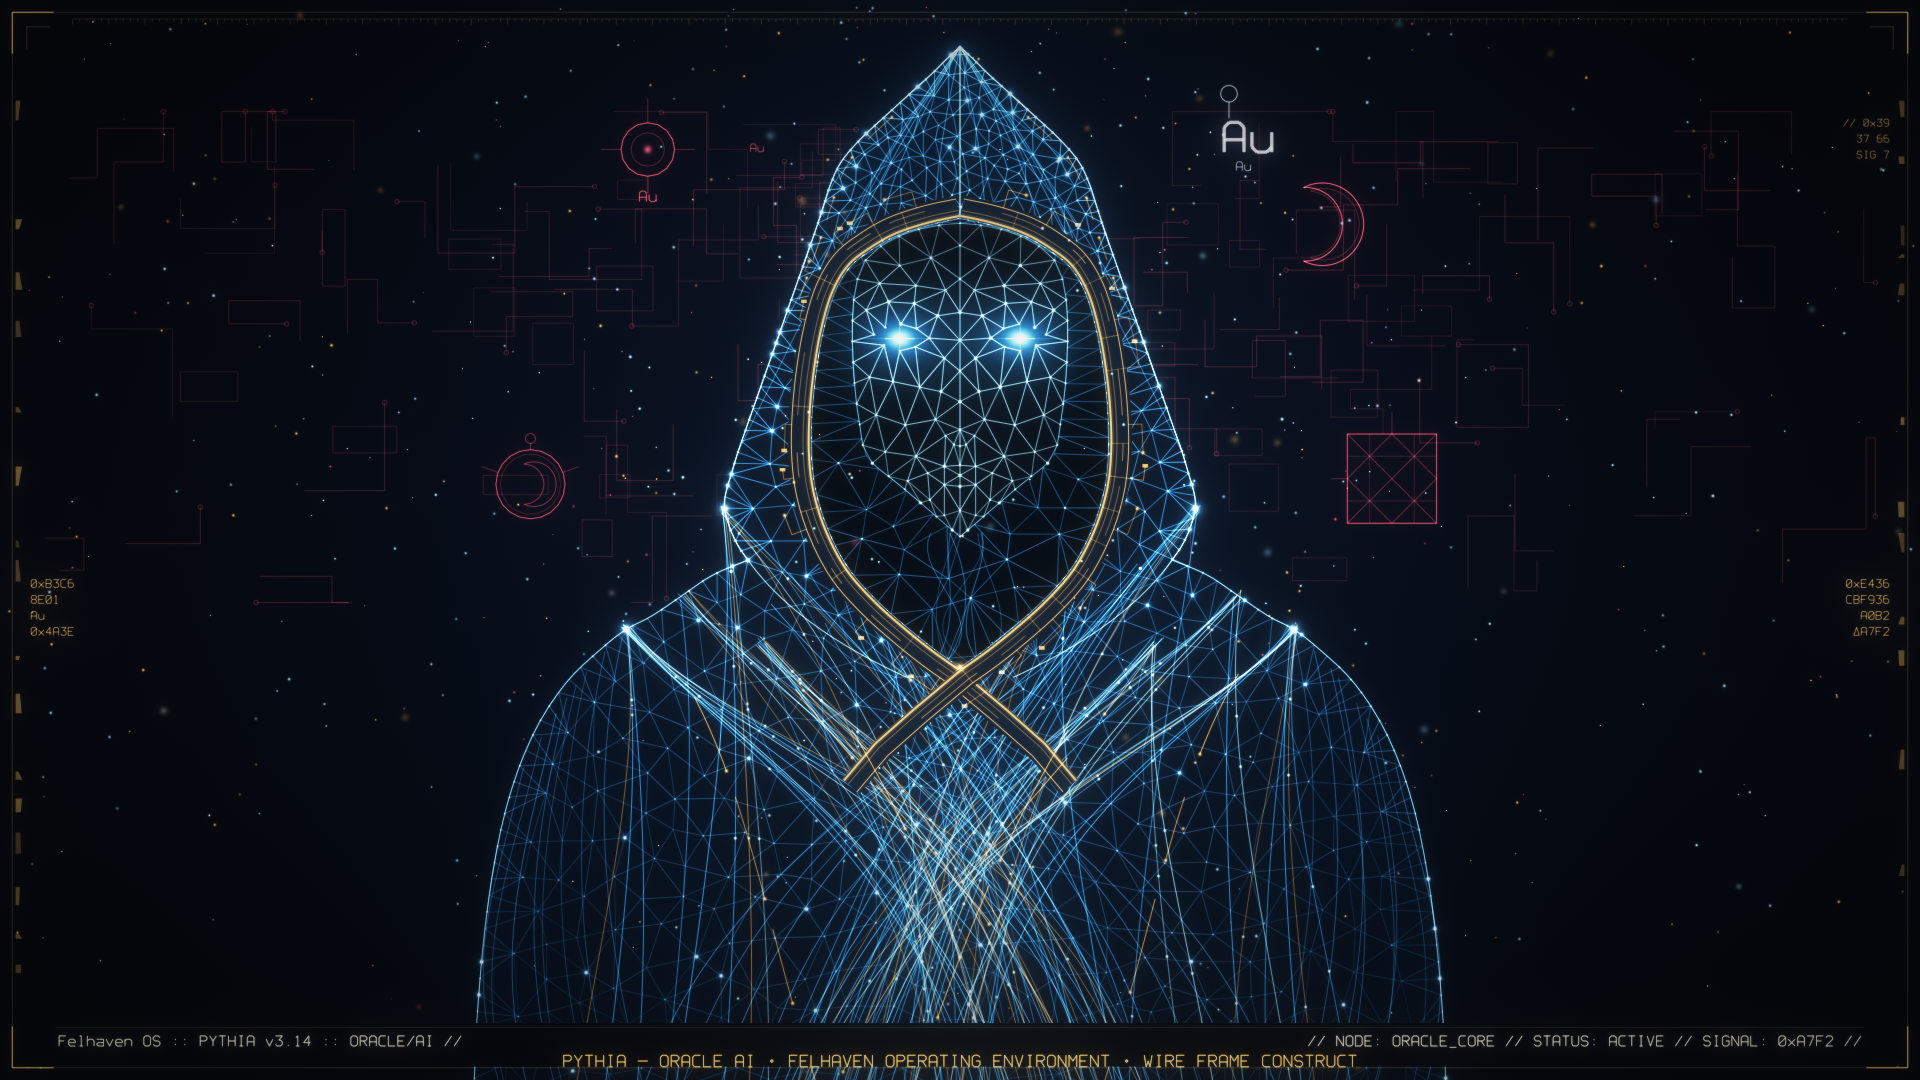
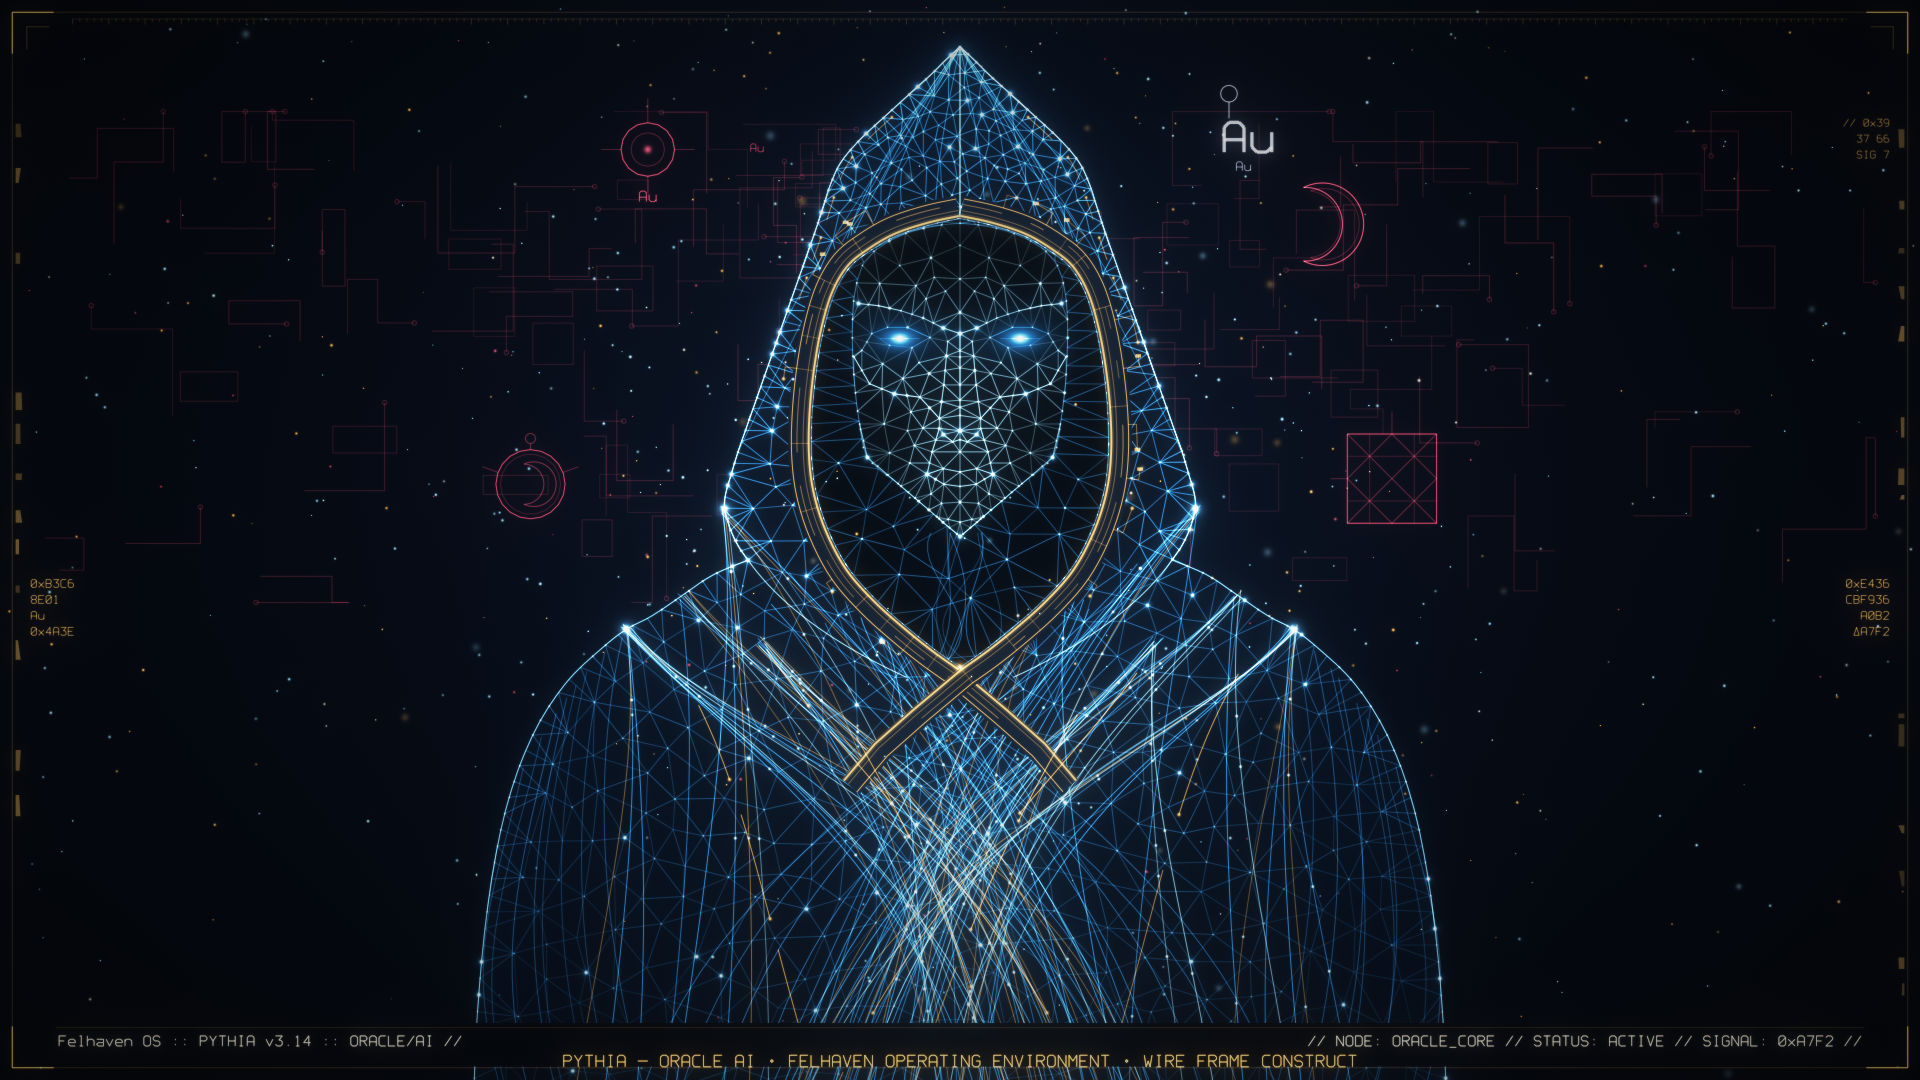
Sandbox: Pythia v2's face gets its character
The face was an even net lit brightest round the eyes: a mask with
headlamps. It is now a skeleton of feature lines over a dim mesh: a brow
angling down to the nose, the bridge, high cheekbones, the lips and a
hard jaw. The mesh is seeded on that skeleton, and each span is drawn a
little brighter or dimmer than its neighbours, so the features read as
edges lining up along the bone, not strokes on top.

A lighting pass replaces the eye glow as the face's main light: the
forehead sits in the brim's shadow, the eyes burn small in dark sockets
cut from the mesh under traced lids, light gathers down the nose,
cheekbones and mouth, and the cheeks fall into hollows. The mesh is
denser down the middle of the face and sparser at the temples.

Claude-Session: https://claude.ai/code/session_01BHzhAAs4vvU1c42pYAowao

Changed region(s): [[0.4375, 0.1833, 0.5625, 0.4889]]

diff --git a/sandbox/pythia_face_v2.py b/sandbox/pythia_face_v2.py
@@ -122,27 +122,34 @@ FACE_L = [
     (656, 962),
 ]
 
-# Landmarks on the left half of the face. The mesh is triangulated on this
-# half and mirrored, so the face is exactly symmetric and the hood is not.
-FACE_MARKS_L = [
-    # eye ring, outer corner round to the inner corner and back
-    (502, 600), (522, 587), (550, 581), (578, 589), (601, 606),
-    (576, 622), (548, 629), (520, 619),
-    # brow
-    (488, 556), (528, 541), (574, 544), (616, 566),
-    # forehead
-    (548, 476), (604, 462), (577, 512), (512, 508), (630, 520),
-    # nose flank and nostril
-    (628, 642), (622, 702), (612, 752), (630, 781), (645, 797),
-    # cheekbone and cheek
-    (494, 676), (536, 684), (584, 694), (506, 744), (558, 762),
-    (522, 810), (577, 818),
-    # mouth
-    (598, 848), (628, 836), (628, 869),
-    # jaw
-    (562, 862), (602, 896), (628, 924),
-]
-FACE_AXIS_Y = [440, 500, 560, 610, 665, 720, 770, 800, 834, 852, 872, 915]
+# The face's skeleton, LEFT half (mirrored; points on the axis stay put).
+# What gives the reference its character is a few lines that catch the light
+# harder than the rest — a brow that angles down to the nose, a long narrow
+# bridge, high cheekbones, a hard jaw — over a filler mesh that stays dim.
+# Each feature: (polyline, intensity, width).
+FACE_FEATURES_L = {
+    "brow":      ([(474, 544), (510, 548), (550, 557), (590, 570), (626, 588), (656, 598)], 0.72, 1.15),
+    "bridge":    ([(656, 598), (656, 690), (656, 772)], 0.70, 1.15),
+    "nose_side": ([(634, 612), (627, 690), (619, 750), (626, 779), (643, 792), (656, 788)], 0.50, 1.0),
+    "cheekbone": ([(466, 640), (494, 688), (538, 706), (584, 712), (619, 750)], 0.72, 1.15),
+    "zygoma":    ([(498, 598), (480, 628), (466, 640)], 0.42, 1.0),
+    "smile":     ([(619, 768), (606, 810), (597, 850)], 0.48, 1.0),
+    "lip_up":    ([(597, 850), (626, 840), (656, 846)], 0.52, 1.0),
+    "lip_low":   ([(597, 850), (627, 868), (656, 872)], 0.45, 1.0),
+    "jaw":       ([(476, 760), (490, 820), (545, 867), (600, 914), (656, 962)], 0.66, 1.15),
+    "chin":      ([(614, 926), (656, 936)], 0.50, 1.0),
+}
+# The eye's lids, outer corner -> inner. The upper lid falls toward the nose
+# with the brow; together they read as a stare, not a pair of lamps.
+LID_UP_L = [(498, 598), (526, 587), (562, 587), (602, 605)]
+LID_LOW_L = [(498, 598), (530, 619), (570, 623), (602, 605)]
+# Where the light catches hardest: brighter nodes, as in the reference.
+FACE_HUBS_L = [(474, 544), (626, 588), (538, 706), (490, 820), (597, 850),
+               (626, 779), (656, 772), (656, 962), (656, 598)]
+# A few extra seeds where the skeleton leaves the mesh to guess.
+FACE_MARKS_L = [(548, 476), (604, 462), (577, 512), (512, 508), (630, 522),
+                (520, 760), (562, 772), (530, 812), (566, 830), (566, 892)]
+FACE_AXIS_Y = [440, 500, 560, 640, 730, 810, 900]
 
 
 # --------------------------------------------------------------------------
@@ -271,6 +278,16 @@ class Near:
         if not segs:
             return self.r
         return min(self.r, min(dist_to_seg(x, y, *seg) for seg in segs))
+
+
+def densify(path, maxlen):
+    """The path's own vertices, plus evenly spaced points on any span longer
+    than maxlen — so the corners survive, unlike resample()."""
+    out = [tuple(path[0])]
+    for (ax, ay), (bx, by) in zip(path, path[1:]):
+        n = max(1, int(math.ceil(math.hypot(bx - ax, by - ay) / maxlen)))
+        out += [(ax + (bx - ax) * k / n, ay + (by - ay) * k / n) for k in range(1, n + 1)]
+    return out
 
 
 def resample(path, spacing, closed=False):
@@ -859,70 +876,117 @@ def _cavity(sc, rng, per_px):
                 "mesh", rng.uniform(0.30, 0.65))
 
 
+def _face_shade(x, y):
+    """How much light the face gets at a point, about 0.15 .. 1.3.
+
+    The reference is lit unevenly, and that is most of its character: the
+    forehead sits in the brim's shadow, the eyes burn inside dark sockets,
+    the light gathers down the nose, the cheekbones and the mouth, and the
+    cheeks fall into hollows under the bone.
+    """
+    s = 0.42 + 0.58 * smoothstep(430, 585, y)              # under the brim
+    for ex, ey in (EYE_L, EYE_R):                          # the sockets
+        d = ((x - ex) / 80.0) ** 2 + ((y - ey + 6) / 42.0) ** 2
+        s *= 0.28 + 0.72 * smoothstep(0.55, 1.7, d)
+    ax = abs(x - CX)                                       # cheek hollows
+    hollow = smoothstep(70, 130, ax) * smoothstep(712, 770, y) * (1 - smoothstep(850, 905, y))
+    s *= 1 - 0.50 * hollow
+    s += 0.38 * math.exp(-((x - CX) / 105.0) ** 2 - ((y - 745) / 115.0) ** 2)   # midface
+    return s
+
+
 def _face(sc, rng, per_px):
-    """The mask: triangulated on the left half, mirrored for exact symmetry,
-    and lit by the eyes. The face has no outline of its own — it is told
-    from the cavity by the density and brightness of its mesh, as in the
-    reference — and each eye burns inside a socket cut out of that mesh."""
+    """The mask: a skeleton of feature lines over a dim triangulated mesh,
+    lit unevenly (_face_shade). Triangulated on the left half and mirrored,
+    so it is exactly symmetric. It has no outline of its own — it is told
+    from the cavity by its mesh — and each eye burns inside a socket cut out
+    of that mesh, under a brow that angles down to the nose."""
     face_l = OUT["face_l"]
     half = face_l + [(CX, face_l[-1][1]), (CX, face_l[0][1])]
 
-    base = max(per_px * 10.0, 34.0)
+    def mirror(p):
+        return (2 * CX - p[0], p[1])
+
+    # Denser down the middle of the face, where the features crowd; sparser
+    # at the temples and up the shaded forehead.
+    base = max(per_px * 9.0, 30.0)
+
+    def spacing_at(x, y):
+        return (base * (0.80 + 0.50 * smoothstep(50, 190, abs(x - CX)))
+                * (1.0 + 0.35 * (1 - smoothstep(470, 570, y))))
+
     seeds = [(float(x), float(y)) for x, y in FACE_MARKS_L]
     seeds += [(CX, float(y)) for y in FACE_AXIS_Y]
+    for line, _i, _w in FACE_FEATURES_L.values():
+        seeds += [p for p in densify(line, base * 1.1) if p[0] <= CX]
+    seeds += LID_UP_L + LID_LOW_L[1:-1]
     seeds += resample(face_l, base * 1.1)
-    fill = scatter(rng, (440, 400, CX - 6, 970), lambda x, y: base * 1.3,
+    seeds = list(dict.fromkeys((round(x, 2), round(y, 2)) for x, y in seeds))
+    fill = scatter(rng, (440, 400, CX - 6, 970), spacing_at,
                    lambda x, y: point_in_poly(x, y, half) and x < CX - 10,
-                   cell=base, tries=600, seeds=seeds)
+                   cell=base * 0.8, tries=900, seeds=seeds)
     pts = seeds + fill
 
     def keep_tri(a, b, c):
         mx, my = (a[0] + b[0] + c[0]) / 3, (a[1] + b[1] + c[1]) / 3
         return point_in_poly(mx, my, half)
 
-    # The socket is the eye ring's own landmarks: drop every edge that would
-    # cross the eye, and the dark almond falls out of the mesh by itself.
-    ring = [(float(x), float(y)) for x, y in FACE_MARKS_L[:8]]
+    # The socket is the lids' own almond: drop every edge across the eye.
+    almond = LID_UP_L + LID_LOW_L[::-1][1:-1]
     edges = [(a, b) for a, b in tri_edges(pts, delaunay(pts), keep_tri)
              if not point_in_poly((pts[a][0] + pts[b][0]) / 2,
-                                  (pts[a][1] + pts[b][1]) / 2, ring)]
+                                  (pts[a][1] + pts[b][1]) / 2, almond)]
 
-    def eyelight(x, y):
-        d = min(math.dist((x, y), EYE_L), math.dist((x, y), EYE_R))
-        return 0.55 * math.exp(-(d / 115.0) ** 2)
-
+    # The filler mesh: dim, and dimmer still toward the mask's edge, so the
+    # skeleton carries the face.
     near_rim = Near(face_l, 40.0)
     for a, b in edges:
         pa, pb = pts[a], pts[b]
         mx, my = (pa[0] + pb[0]) / 2, (pa[1] + pb[1]) / 2
-        on_axis = pa[0] == CX and pb[0] == CX
-        # dimmer up the forehead, where the brim shades it; dimmer at the
-        # very edge, so the mask fades into the cavity instead of being cut
-        shade = 0.62 + 0.38 * smoothstep(430, 560, my)
-        edge = near_rim(mx, my) / 40.0
-        i = rng.uniform(0.55, 0.82) * shade * (0.65 + 0.35 * edge) + eyelight(mx, my)
-        if on_axis:
-            sc.line([pa, pb], "mesh_hot", i + 0.15)
-        else:
-            sc.line([pa, pb], "mesh_hot", i)
-            sc.line([(2 * CX - pa[0], pa[1]), (2 * CX - pb[0], pb[1])], "mesh_hot", i)
+        fade = 0.55 + 0.45 * near_rim(mx, my) / 40.0
+        i = rng.uniform(0.42, 0.66) * _face_shade(mx, my) * fade
+        sc.line([pa, pb], "mesh_hot", i)
+        if not (pa[0] == CX and pb[0] == CX):
+            sc.line([mirror(pa), mirror(pb)], "mesh_hot", i)
 
+    # The skeleton, over it: span by span, each a little brighter or dimmer
+    # than its neighbours, so it reads as mesh edges that happen to line up
+    # along the bone, not as a stroke drawn on top.
+    for line, i, width in FACE_FEATURES_L.values():
+        on_axis = all(x == CX for x, _ in line)
+        for a, b in zip(line, line[1:]):
+            k = i * rng.uniform(0.70, 1.15)
+            sc.line([a, b], "mesh_hot", k, width)
+            if not on_axis:
+                sc.line([mirror(a), mirror(b)], "mesh_hot", k, width)
+
+    # Nodes: dim where the face is in shadow, a few catching hard; the hubs
+    # of the skeleton brightest of all.
+    hubs = set(FACE_HUBS_L)
     for x, y in pts:
-        for px in ((x, y), (2 * CX - x, y)) if x < CX else ((x, y),):
-            hot = rng.random() < 0.18
-            j = 0.62 + eyelight(*px) + (0.55 if hot else 0.0)
-            sc.dot(*px, 2.6 if hot else 1.9, "mesh_hot", j)
+        if (x, y) in hubs:
+            continue
+        for p in ((x, y), mirror((x, y))) if x < CX else ((x, y),):
+            hot = rng.random() < 0.12
+            sc.dot(*p, 2.4 if hot else 1.8, "mesh_hot",
+                   (0.30 + 0.45 * _face_shade(*p)) * (1.7 if hot else 1.0))
+    for x, y in FACE_HUBS_L:
+        for p in ((x, y), mirror((x, y))) if x < CX else ((x, y),):
+            sc.dot(*p, 8, "mesh", 0.30)
+            sc.dot(*p, 3.2, "mesh_hot", 1.35)
 
-    # The eyes, burning inside their sockets: a wide faint halo, a tighter
-    # one, a hot core, and a short flare. Bloom does the rest.
+    # The eyes: lids traced in the eye's own light, then a small, intense
+    # core with a short flare. Small on purpose — a stare, not headlamps.
+    for lid, i in ((LID_UP_L, 0.42), (LID_LOW_L, 0.20)):
+        sc.line(lid, "eye", i, 1.3)
+        sc.line([mirror(p) for p in lid], "eye", i, 1.3)
     for ex, ey in (EYE_L, EYE_R):
-        sc.glow(ex, ey, 150, 110, "eye", 0.10)
-        sc.glow(ex, ey, 58, 42, "eye", 0.40)
-        sc.glow(ex, ey, 22, 16, "eye", 1.10)
-        sc.dot(ex, ey, 4.5, "mesh_hot", 1.8)
-        sc.line([(ex - 70, ey), (ex + 70, ey)], "eye", 0.30)
-        sc.line([(ex - 26, ey), (ex + 26, ey)], "eye", 0.85, 1.4)
-        sc.line([(ex, ey - 22), (ex, ey + 20)], "eye", 0.45)
+        sc.glow(ex, ey, 120, 70, "eye", 0.07)
+        sc.glow(ex, ey, 44, 24, "eye", 0.36)
+        sc.glow(ex, ey, 17, 10, "eye", 1.00)
+        sc.dot(ex, ey, 3.6, "mesh_hot", 1.9)
+        sc.line([(ex - 36, ey), (ex + 36, ey)], "eye", 0.30)
+        sc.line([(ex - 14, ey), (ex + 14, ey)], "eye", 0.80, 1.3)
 
 
 def _trim(sc, rng):

diff --git a/sandbox/README.md b/sandbox/README.md
@@ -57,6 +57,15 @@ display gets native pixels, not a stretched, soft frame.
   HUD frame at the screen's edges, schematic and dust across the full width,
   glyphs easing outward, and the cloak falling past the shoulders into arms
   instead of stopping at the poster's edge.
+- **The face is a skeleton over a mesh.** A few feature lines catch the
+  light harder than the filler mesh: a brow angling down to the nose, the
+  bridge, high cheekbones, the lips and a hard jaw. The mesh is built on them
+  and stays dim. They are drawn span by span, each a little brighter or
+  dimmer, so they read as edges lining up along the bone, not strokes on
+  top. A lighting pass does the rest: the forehead sits in the brim's
+  shadow, the eyes burn in dark sockets cut out of the mesh, light gathers
+  down the nose, cheekbones and mouth, and the cheeks fall into hollows.
+  Exactly symmetric: triangulated on the left half and mirrored.
 - **Reference-measured.** The hood silhouette was measured off the reference
   row by row, and the colours were sampled region by region.
 - **Seeded.** `seed=7` draws the same figure every time; another seed draws a
@@ -93,7 +102,5 @@ the eyes, a few trim traces, and some node twinkle.
 From the review of the first still, not yet done:
 
 - volume in the hood: facets shaded as if lit from the front, and fold lines
-- character in the face: brow ridge, cheekbones, nose bridge and jaw picked
-  out, with the inner brows angled down
 - the robe as four or five draped folds, not free strands
 - a slight head tilt and an uneven hood, so it reads less like a diagram
